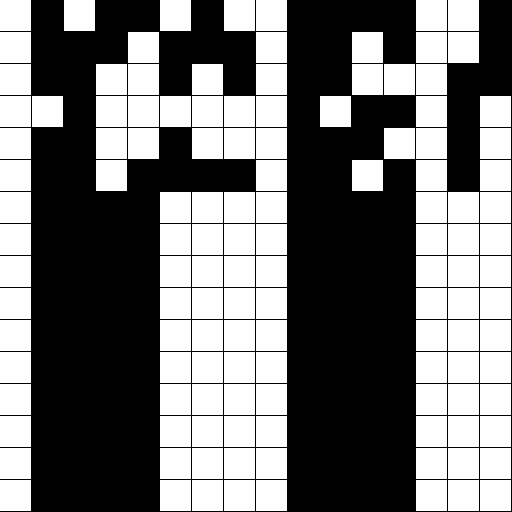
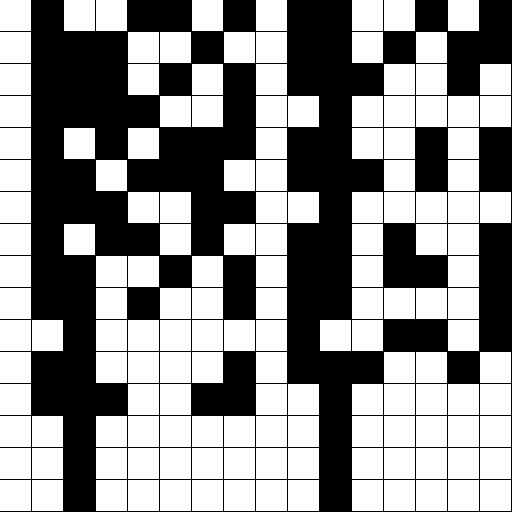
scrypt automatycznie generuje najmniejszy szum, dla którego wiadomość zostaje odczytana. W ten sposób zmianiamy obraz najmniej

diff --git a/python/1/WatermarkImage.py b/python/1/WatermarkImage.py
@@ -16,7 +16,7 @@ class WatermarkImage:
 
         if len(self.message) < 32:
             difference = 32 - len(self.message)
-            self.message += difference * 'x'
+            self.message += difference * ' '
 
         self.message_binary = ""
         self.message_numbers = []
@@ -102,10 +102,10 @@ class WatermarkImage:
                 self.watermark_visible[i * self.K : ((i+1)*self.K) - 1,j*self.K:((j+1)*self.K) - 1] = \
                     self.message_matrix[i][j]
 
-    def set_noise(self):
+    def set_noise(self,max_noise):
         for i in range(self.width):
             for j in range(self.height):
-                self.noise[i][j] = random.randint(1, 60)
+                self.noise[i][j] = random.randint(1, max_noise)
         self.noise_is_set = True
 
     def set_noised_watermark(self):
@@ -121,12 +121,13 @@ class WatermarkImage:
             self.Mb = self.width / self.K
             self.Nb = self.height / self.K
 
-    def write_watermark(self):
+    def write_watermark(self,max_noise=2):
         self.set_message_matrix()
         self.set_watermark()
-        self.set_noise()
+        self.set_noise(max_noise)
         self.set_noised_watermark()
         self.set_img_with_message()
+
 
     def set_dst(self):
         self.dst = cv2.filter2D(self.img_with_message, -1, self.kernel)
@@ -156,7 +157,7 @@ class WatermarkImage:
             self.c = chr(int(item,2))
             self.message_detected += self.c
 
-    def check_watermark_detected(self):
+    def check_watermark_detected_f(self):
         self.check_watermark_detected = self.watermark_detected - self.watermark_visible
         self.error_rate = np.sum(self.check_watermark_detected)
 
@@ -167,7 +168,7 @@ class WatermarkImage:
         self.set_demmod_img()
         self.set_watermark_detected()
         self.set_message_detected()
-        self.check_watermark_detected()
+        self.check_watermark_detected_f()
 
     def write_all_images_to_files(self):
         cv2.imwrite('message_matrix.jpeg', self.message_matrix)

diff --git a/python/1/script.py b/python/1/script.py
@@ -85,7 +85,24 @@ class MyWidget(QtGui.QWidget):
 
 
         img = WatermarkImage(file_path, users_message)
-        img.write_watermark()
+
+        img_temporary = WatermarkImage(file_path, users_message)
+
+        noise_optimal = 0
+        max_error_rate = 10000
+        for i in range(2,60):
+            img_temporary.write_watermark(i)
+            img_temporary.read_watermark()
+            if img_temporary.error_rate < max_error_rate:
+                max_error_rate = img_temporary.error_rate
+                noise_optimal = i
+            if max_error_rate == 0:
+                break
+
+
+        img.write_watermark(noise_optimal)
+
+
 #####################################################################
 
 #file_with_message_path = raw_input("Please enter file path")
